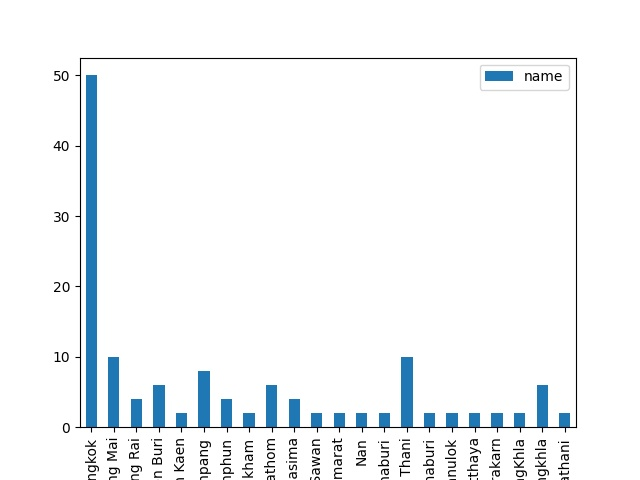
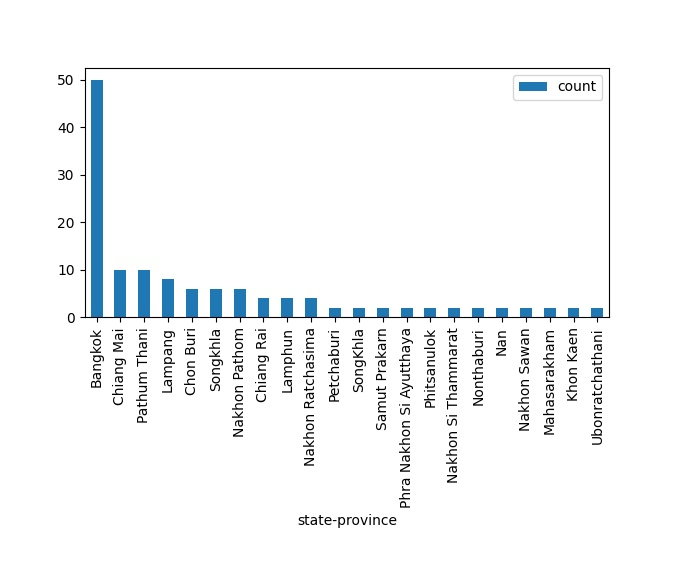
added html

Changed region(s): [[0.0625, 0.0938, 0.9062, 1.0]]

diff --git a/templates/base.html b/templates/base.html
@@ -1,71 +1,54 @@
 <!DOCTYPE html>
 <html lang="en">
-    <head>
-        <meta charset="utf-8" />
-        <meta name="viewport" content="width=device-width, initial-scale=1, shrink-to-fit=no" />
-        <meta name="description" content="" />
-        <meta name="author" content="" />
-        <title>Simple Sidebar - Start Bootstrap Template</title>
-        <!-- Favicon-->
-        <link rel="icon" type="image/x-icon" href="{{ url_for('static', filename='assets/favicon.ico')}}" />
-        <!-- Core theme CSS (includes Bootstrap)-->
-        <link rel="stylesheet" href="{{ url_for('static', filename='css/styles.css')}}">
-    </head>
-    <body>
-        <div class="d-flex" id="wrapper">
-            <!-- Sidebar-->
-            <div class="border-end bg-white" id="sidebar-wrapper">
-                <div class="sidebar-heading border-bottom bg-light">Start Bootstrap</div>
-                <div class="list-group list-group-flush">
-                    <a class="list-group-item list-group-item-action list-group-item-light p-3" href="#!">Dashboard</a>
-                    <a class="list-group-item list-group-item-action list-group-item-light p-3" href="#!">Shortcuts</a>
-                    <a class="list-group-item list-group-item-action list-group-item-light p-3" href="#!">Overview</a>
-                    <a class="list-group-item list-group-item-action list-group-item-light p-3" href="#!">Events</a>
-                    <a class="list-group-item list-group-item-action list-group-item-light p-3" href="#!">Profile</a>
-                    <a class="list-group-item list-group-item-action list-group-item-light p-3" href="#!">Status</a>
-                </div>
-            </div>
-            <!-- Page content wrapper-->
-            <div id="page-content-wrapper">
-                <!-- Top navigation-->
-                <nav class="navbar navbar-expand-lg navbar-light bg-light border-bottom">
-                    <div class="container-fluid">
-                        <button class="btn btn-primary" id="sidebarToggle">Toggle Menu</button>
-                        <button class="navbar-toggler" type="button" data-bs-toggle="collapse" data-bs-target="#navbarSupportedContent" aria-controls="navbarSupportedContent" aria-expanded="false" aria-label="Toggle navigation"><span class="navbar-toggler-icon"></span></button>
-                        <div class="collapse navbar-collapse" id="navbarSupportedContent">
-                            <ul class="navbar-nav ms-auto mt-2 mt-lg-0">
-                                <li class="nav-item active"><a class="nav-link" href="#!">Home</a></li>
-                                <li class="nav-item"><a class="nav-link" href="#!">Link</a></li>
-                                <li class="nav-item dropdown">
-                                    <a class="nav-link dropdown-toggle" id="navbarDropdown" href="#" role="button" data-bs-toggle="dropdown" aria-haspopup="true" aria-expanded="false">Dropdown</a>
-                                    <div class="dropdown-menu dropdown-menu-end" aria-labelledby="navbarDropdown">
-                                        <a class="dropdown-item" href="#!">Action</a>
-                                        <a class="dropdown-item" href="#!">Another action</a>
-                                        <div class="dropdown-divider"></div>
-                                        <a class="dropdown-item" href="#!">Something else here</a>
-                                    </div>
-                                </li>
-                            </ul>
-                        </div>
-                    </div>
-                </nav>
-                <!-- Page content-->
-                <div class="container-fluid">
-                    <h1 class="mt-4">Simple Sidebar</h1>
-                    <p>The starting state of the menu will appear collapsed on smaller screens, and will appear non-collapsed on larger screens. When toggled using the button below, the menu will change.</p>
-                    <p>
-                        Make sure to keep all page content within the
-                        <code>#page-content-wrapper</code>
-                        . The top navbar is optional, and just for demonstration. Just create an element with the
-                        <code>#sidebarToggle</code>
-                        ID which will toggle the menu when clicked.
-                    </p>
-                </div>
-            </div>
+<head>
+    <meta charset="utf-8"/>
+    <meta name="viewport" content="width=device-width, initial-scale=1, shrink-to-fit=no"/>
+    <meta name="description" content=""/>
+    <meta name="author" content=""/>
+    <title>{% block title %} {% endblock %}</title>
+    <!-- Favicon-->
+    <link rel="icon" type="image/x-icon" href="{{ url_for('static', filename='assets/favicon.ico')}}"/>
+    <!-- Core theme CSS (includes Bootstrap)-->
+    <link rel="stylesheet" href="{{ url_for('static', filename='css/styles.css')}}">
+</head>
+<body>
+<div class="d-flex" id="wrapper">
+    <!-- Sidebar-->
+    <div class="border-end bg-white" id="sidebar-wrapper">
+        <div class="sidebar-heading border-bottom bg-light">University Analysis</div>
+        <div class="list-group list-group-flush">
+            <a class="list-group-item list-group-item-action list-group-item-light p-3" href="{{ url_for('main') }}">Top University Regions</a>
+            <a class="list-group-item list-group-item-action list-group-item-light p-3" href="{{ url_for('universities_by_region') }}">Universities by Region</a>
+            <a class="list-group-item list-group-item-action list-group-item-light p-3" href="{{ url_for('barchart') }}">Chart</a>
+            <a class="list-group-item list-group-item-action list-group-item-light p-3" href="{{ url_for('universities_group_by_region') }}">Universities Grouped by Region</a>
+            <a class="list-group-item list-group-item-action list-group-item-light p-3" href="#!">Profile</a>
+            <a class="list-group-item list-group-item-action list-group-item-light p-3" href="#!">Status</a>
         </div>
-        <!-- Bootstrap core JS-->
-        <script type="text/javascript" src="{{ url_for('static', filename='js/bootstrap.bundle.min.js')}}"></script>
-        <!-- Core theme JS-->
-        <script src="{{ url_for('static', filename='js/scripts.js')}}"></script>
-    </body>
+    </div>
+    <!-- Page content wrapper-->
+    <div id="page-content-wrapper">
+        <!-- Top navigation-->
+        <nav class="navbar navbar-expand-lg navbar-light bg-light border-bottom">
+            <div class="container-fluid">
+                <button class="btn btn-primary" id="sidebarToggle">Toggle Menu</button>
+                <button class="navbar-toggler" type="button" data-bs-toggle="collapse"
+                        data-bs-target="#navbarSupportedContent" aria-controls="navbarSupportedContent"
+                        aria-expanded="false" aria-label="Toggle navigation"><span class="navbar-toggler-icon"></span>
+                </button>
+            </div>
+        </nav>
+        <!-- Page content-->
+        <div class="container-fluid">
+            <h1 class="mt-4">{{ self.title() }}</h1>
+            <p>
+                {% block content %} {% endblock %}
+            </p>
+        </div>
+    </div>
+</div>
+<!-- Bootstrap core JS-->
+<script type="text/javascript" src="{{ url_for('static', filename='js/bootstrap.bundle.min.js')}}"></script>
+<!-- Core theme JS-->
+<script src="{{ url_for('static', filename='js/scripts.js')}}"></script>
+</body>
 </html>

diff --git a/templates/render_accordion.html b/templates/render_accordion.html
@@ -1,0 +1,43 @@
+{% extends "base.html" %}
+{% block title %} {{title}} {% endblock %}
+
+{% block content %}
+{% for data in result %}
+<div class="accordion" id="accordionExample">
+    <div class="accordion">
+        <div class="accordion-item">
+            <h2 class="accordion-header" id="headingThree">
+                <button class="accordion-button collapsed" type="button" data-bs-toggle="collapse"
+                        data-bs-target="#collapseThree" aria-expanded="false" aria-controls="collapseThree">
+                      <strong>{{ data[0] }}</strong>  
+                </button>
+            </h2>
+            <div id="collapseThree" class="accordion-collapse collapse" aria-labelledby="headingThree"
+                 data-bs-parent="#accordionExample">
+                <div class="accordion-body">
+                    {{ data[1]  | safe }}
+                </div>
+            </div>
+        </div>
+    </div>
+</div>
+<!--    -->
+<!--    <div class="accordion-item">-->
+<!--        <h2 class="accordion-header" id="heading{{data[0].replace(' ','')}}">-->
+<!--            <button class="accordion-button" type="button" data-bs-toggle="collapse" data-bs-target="#collapse{{data[0].replace(' ','')}}"-->
+<!--                    aria-expanded="false" aria-controls="collapse{{data[0].replace(' ','')}}">-->
+<!--                {{ data[0] }}-->
+<!--            </button>-->
+<!--        </h2>-->
+<!--        <div id="collapse{{data[0].replace(' ','')}}" class="accordion-collapse collapse show" aria-labelledby="heading{{data[0].replace(' ','')}}"-->
+<!--             data-bs-parent="#accordionExample">-->
+<!--            <div class="accordion-body">-->
+<!--                {{ data[1]  | safe }}-->
+<!--            </div>-->
+<!--        </div>-->
+<!--    </div>-->
+<!--</div>-->
+
+
+{% endfor %}
+{% endblock %}

diff --git a/templates/render_image.html b/templates/render_image.html
@@ -1,0 +1,7 @@
+{% extends "base.html" %}
+{% block title %} {{title}} {% endblock %}
+
+{% block content %}
+<img src="{{url_for('static', filename='assets/barchart.png')}}" class="img-fluid" alt="Responsive image">
+{% endblock %}
+

diff --git a/templates/render_dataframe.html b/templates/render_dataframe.html
@@ -1,0 +1,9 @@
+{% extends "base.html" %}
+{% block title %} {{title}} {% endblock %}
+
+{% block content %}
+{% for table in tables %}
+
+{{ table|safe }}
+{% endfor %}
+{% endblock %}

diff --git a/app.py b/app.py
@@ -1,19 +1,47 @@
 from flask import Flask, escape, request, render_template
 import pandas as pd
+
 app = Flask(__name__)
 
-#
-# @app.route('/')
-# def hello():
-#     name = request.args.get("name", "World")
-#     # return f'Hello, {escape(name)}!'
-#     df = pd.read_csv('intermediate_res.csv', sep='|')
-#     return render_template('simple.html',  tables=[df.to_html(classes='table').replace("<thead>", "<thead class='thead-light'>")], titles=df.columns.values)
 
 @app.route('/')
-def home():
+def index():
+    return render_template('base.html')
+
+
+#
+@app.route('/main')
+def main():
+    # name = request.args.get("name", "World")
+    # return f'Hello, {escape(name)}!'
     df = pd.read_csv('intermediate_res.csv', sep='|')
-    return render_template('base.html',  tables=[df.to_html(classes='table').replace("<thead>", "<thead class='thead-light'>")], titles=df.columns.values)
+    return render_template('render_dataframe.html', title='Universities count by region', tables=[
+        df.to_html(classes=["table", "table-striped"], index=False, justify='left').replace("<thead>",
+                                                                                            "<thead class='thead-dark'>")],
+                           titles=df.columns.values)
+
+
+@app.route('/universities_by_region')
+def universities_by_region():
+    df = pd.read_csv('intermediate_res_1.csv', sep='|')
+    return render_template('render_dataframe.html', title='Universities count by region', tables=[
+        df.to_html(classes=["table", "table-striped"], index=False, justify='left').replace("<thead>",
+                                                                                            "<thead class='thead-dark'>")],
+                           titles=df.columns.values)
+
+
+@app.route('/barchart')
+def barchart():
+    return render_template('render_image.html', title='Bar Chart')
+
+
+@app.route('/universities_group_by_region')
+def universities_group_by_region():
+    df = pd.read_csv('intermediate_res_2.csv', sep='|')
+    df['name'] = df['name'].apply(lambda x: x.replace(',','<br>'))
+    return render_template('render_accordion.html', title='Universities count by region',
+                           result=list(df.loc[:1].to_records(index=False)))
+
 
 if __name__ == "__main__":
     app.run(debug=True)

diff --git a/main.py b/main.py
@@ -13,8 +13,9 @@ df_grp = df.groupby(['state-province']).count().reset_index()
 df_grp = df_grp.rename(columns={'name':'count'})
 df_grp = df_grp.sort_values(by='count', ascending=False)
 df_grp.to_csv('intermediate_res.csv',sep='|',index=False)
-# fig = df_grp.plot.bar( x='state-province',y='name').get_figure()
-# fig.savefig('test.jpg')
+
+fig = df_grp.plot.bar( x='state-province',y='count').get_figure()
+fig.savefig('test.jpg')
 dff = pd.merge(df, df_grp, on='state-province').sort_values(by='count', ascending=False)
 dff[['state-province','name','count']].to_csv('intermediate_res_1.csv',sep='|',index=False)
 
